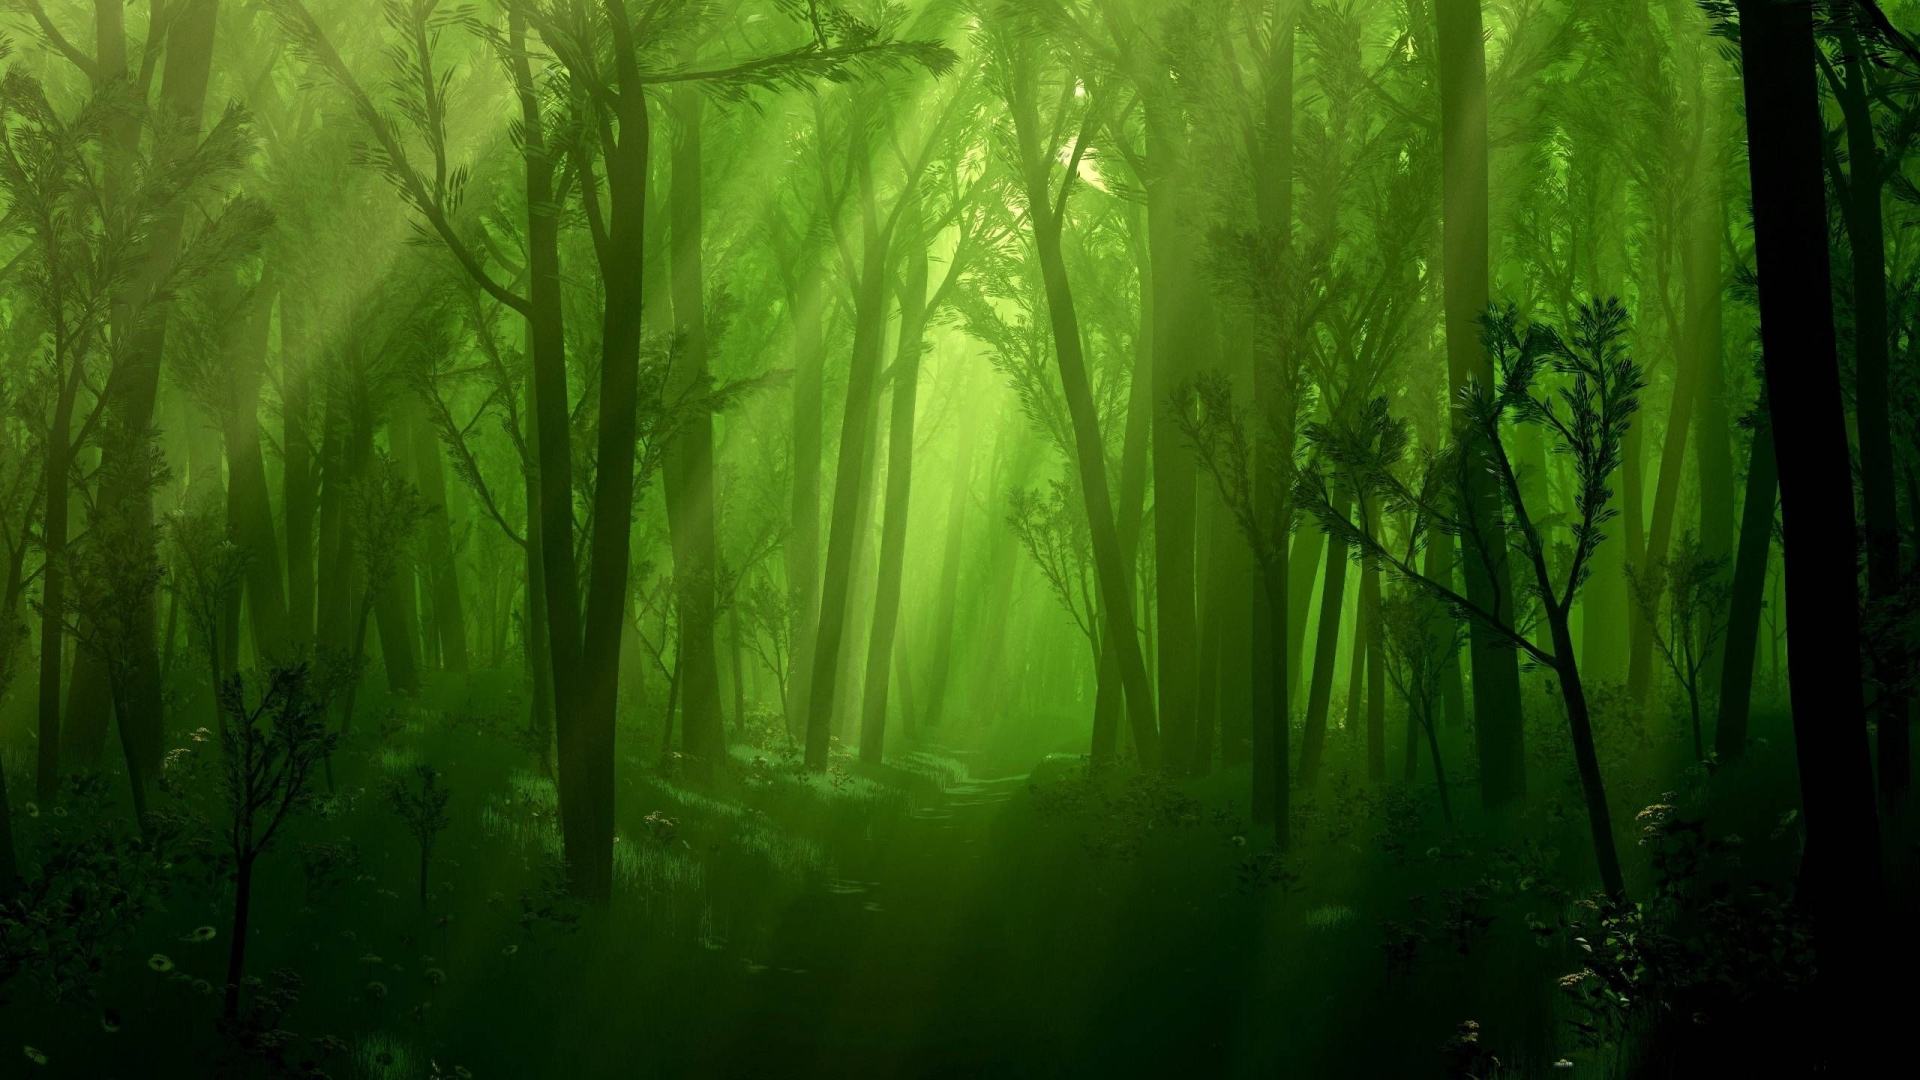
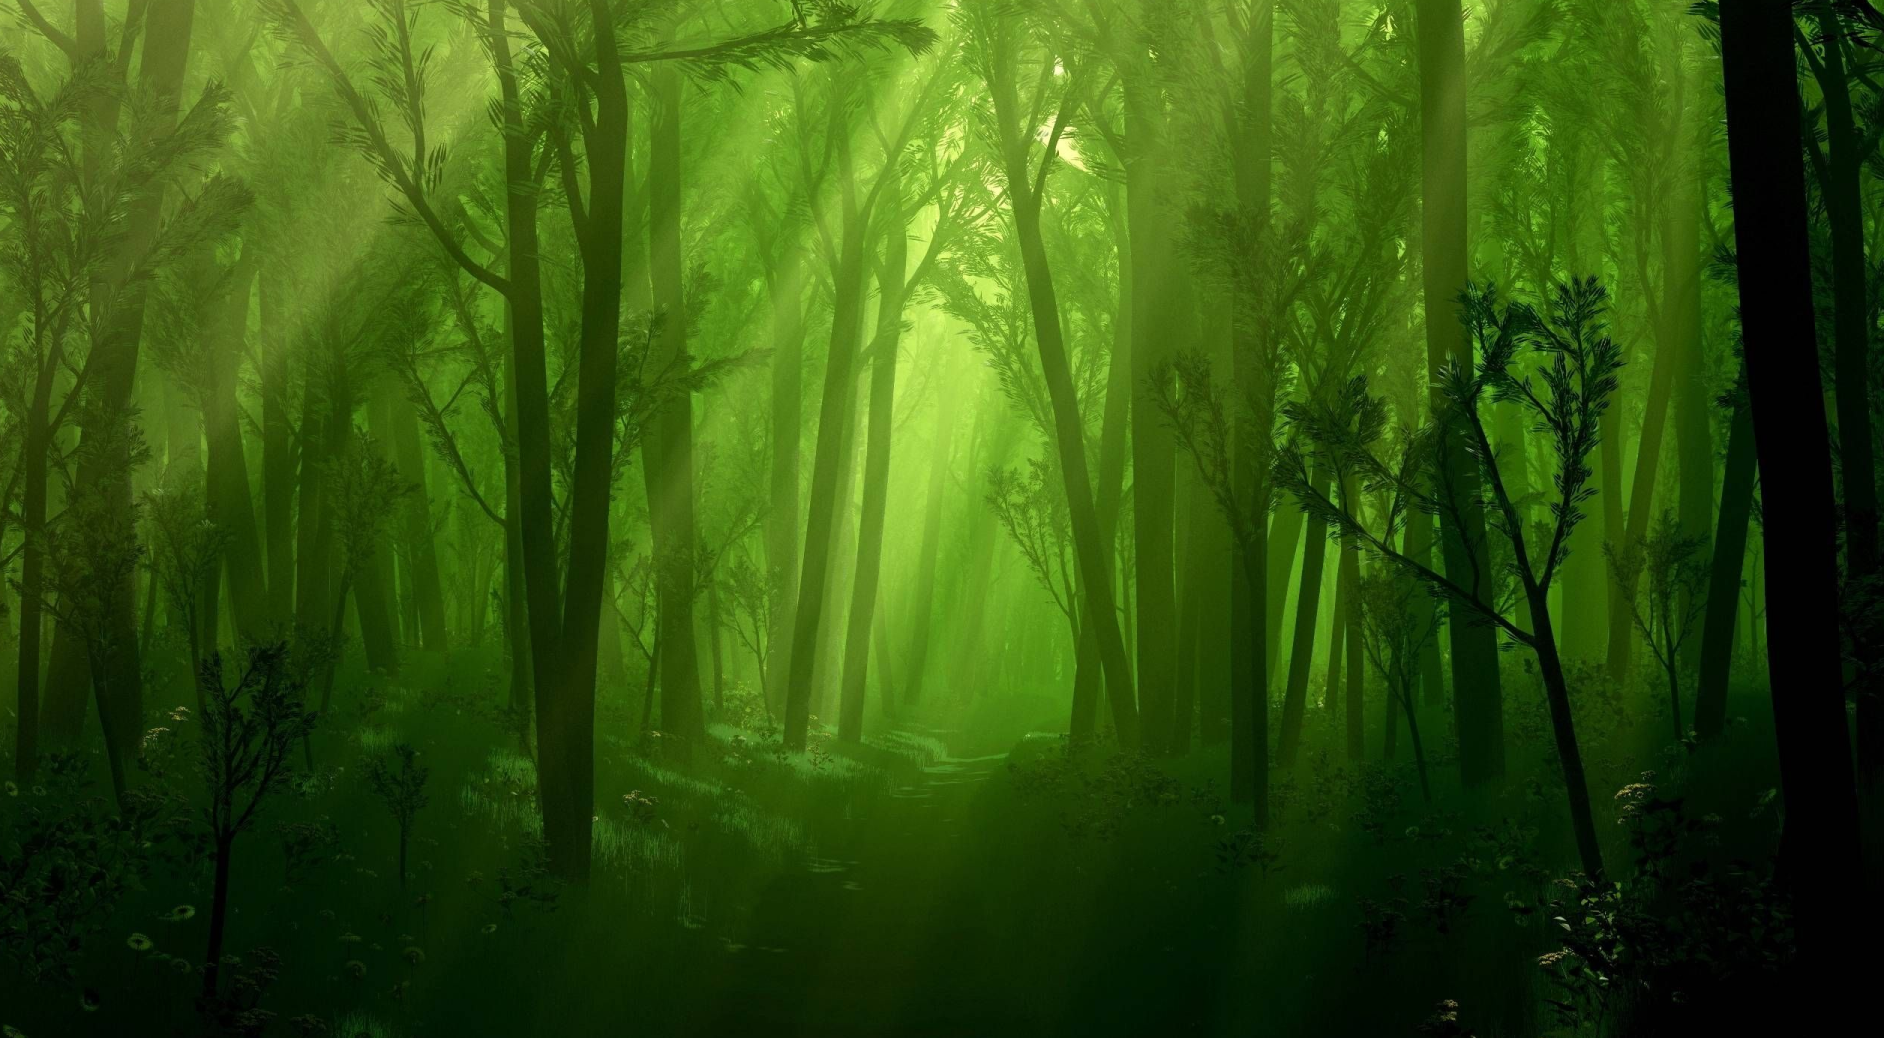
cropped the pictures to right proportions and stuff

diff --git a/src/main/resources/Pliancy.css b/src/main/resources/Pliancy.css
@@ -1,0 +1,7 @@
+.logo:hover {
+    background-color: #f5f5f5;
+    border-radius: 5px;
+    box-shadow: 0 0 5px #888888;
+    cursor: pointer;
+
+}
